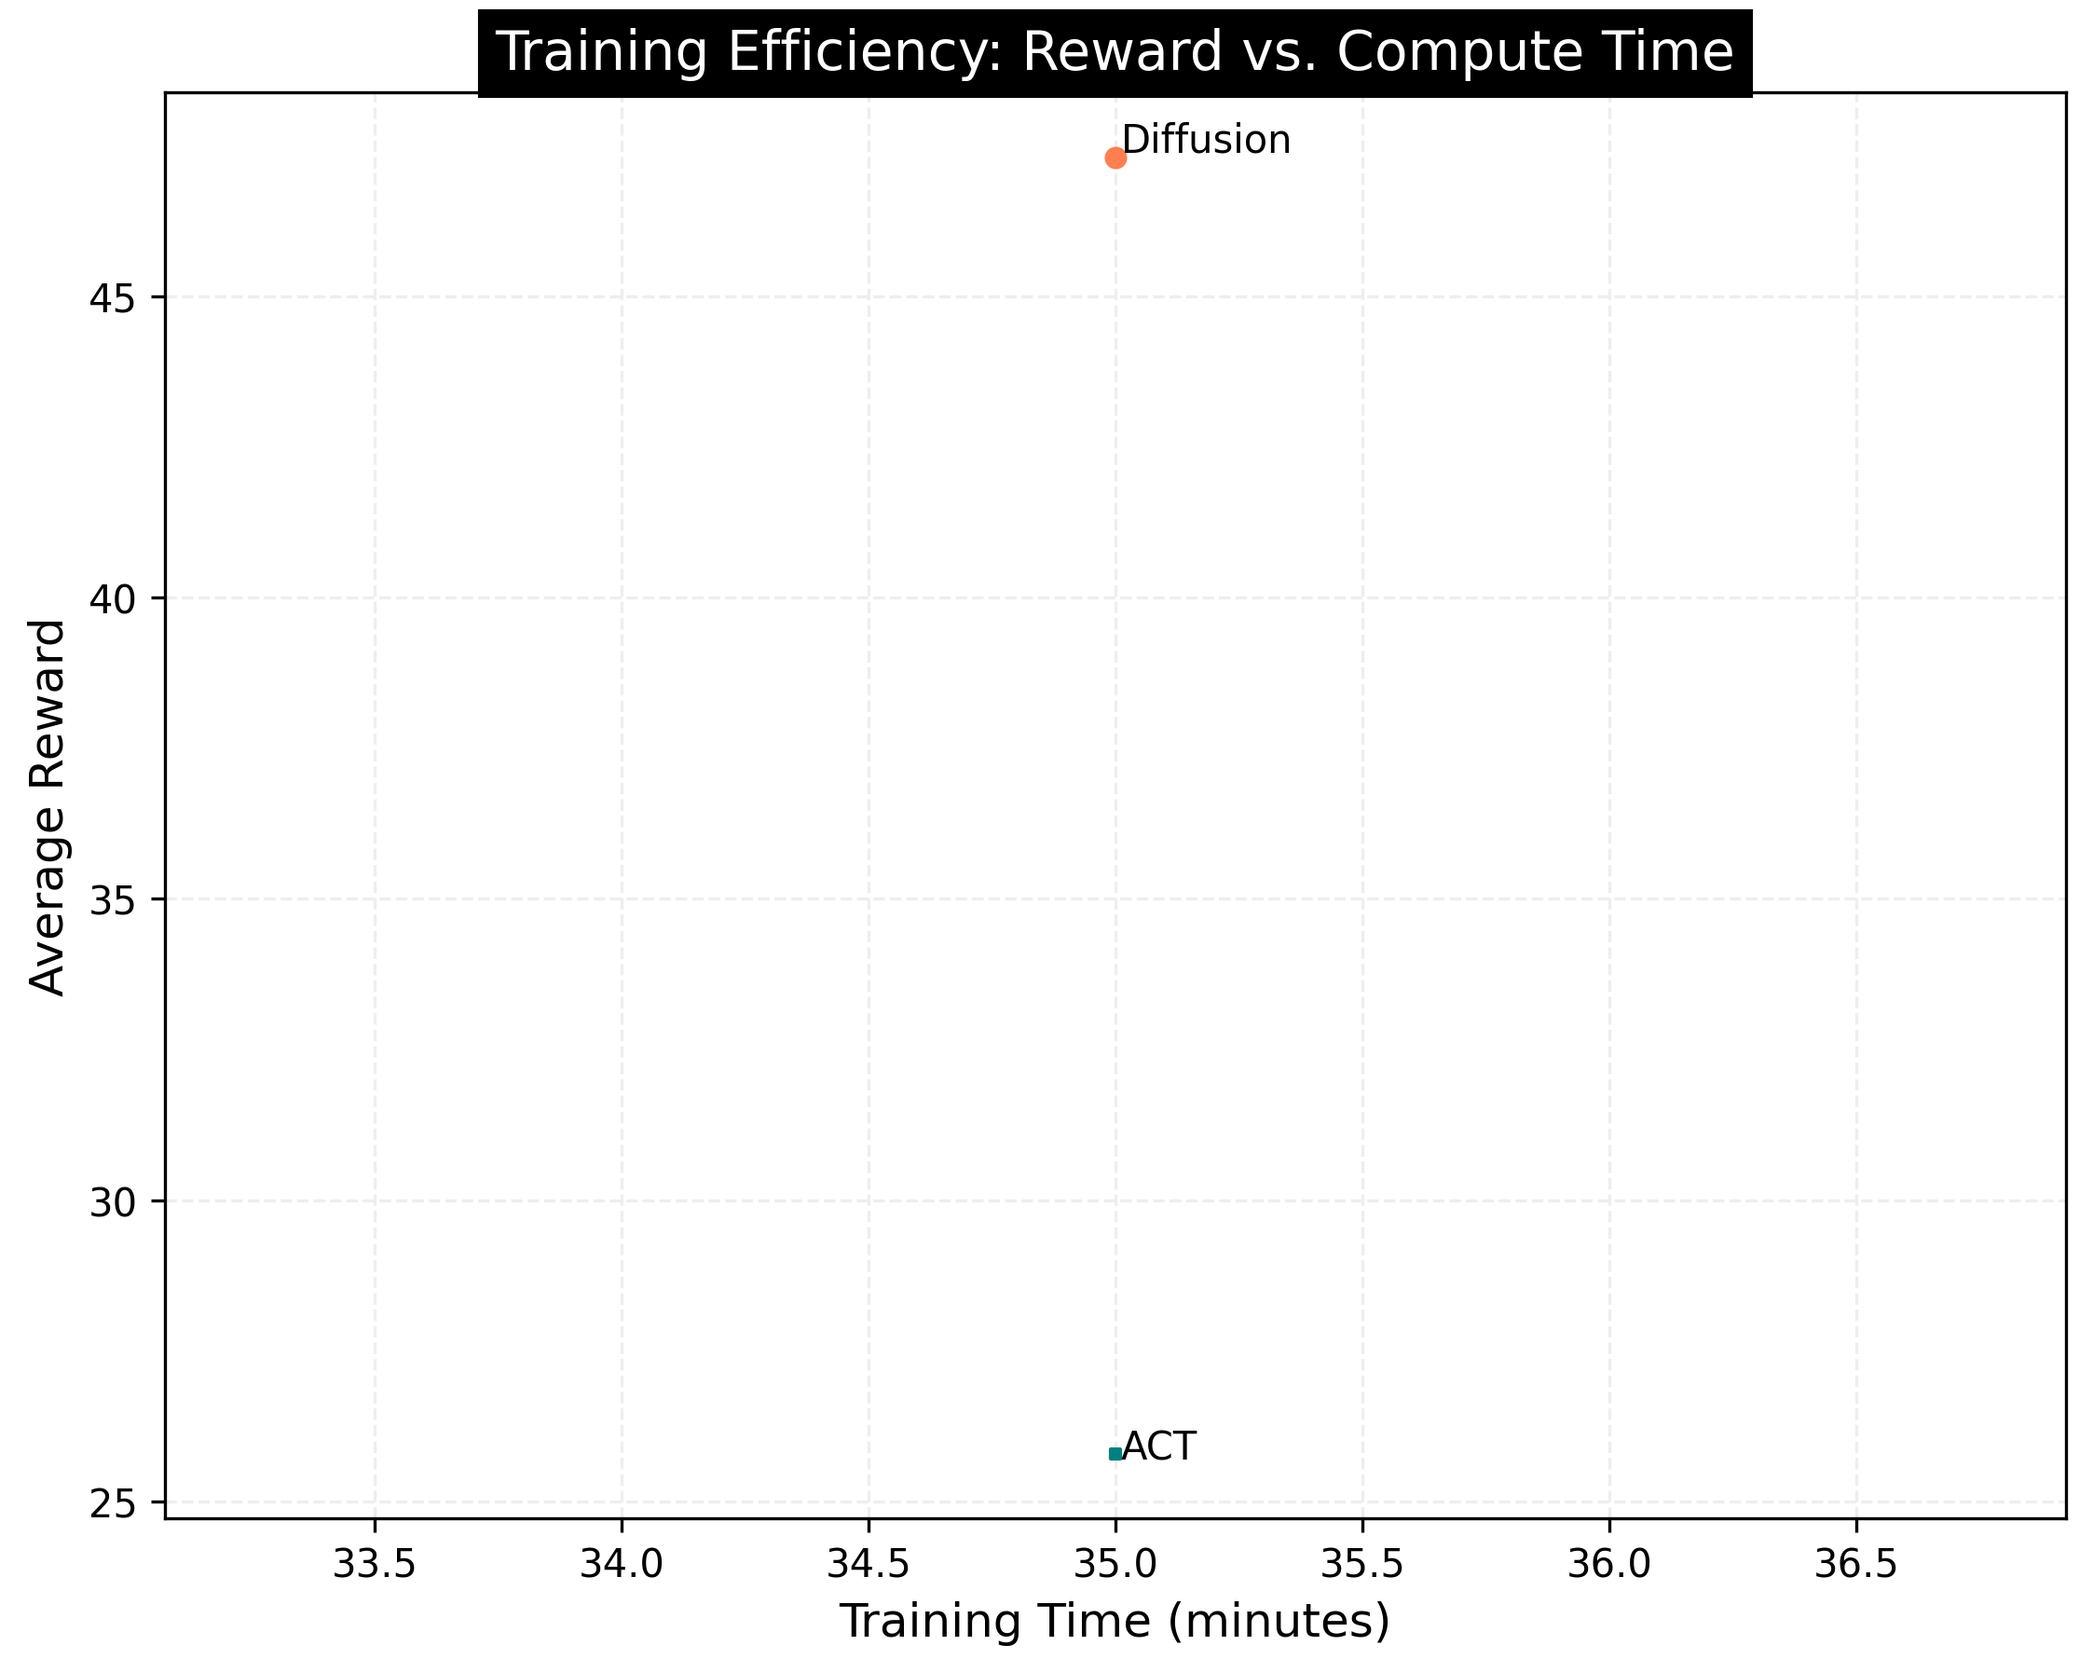
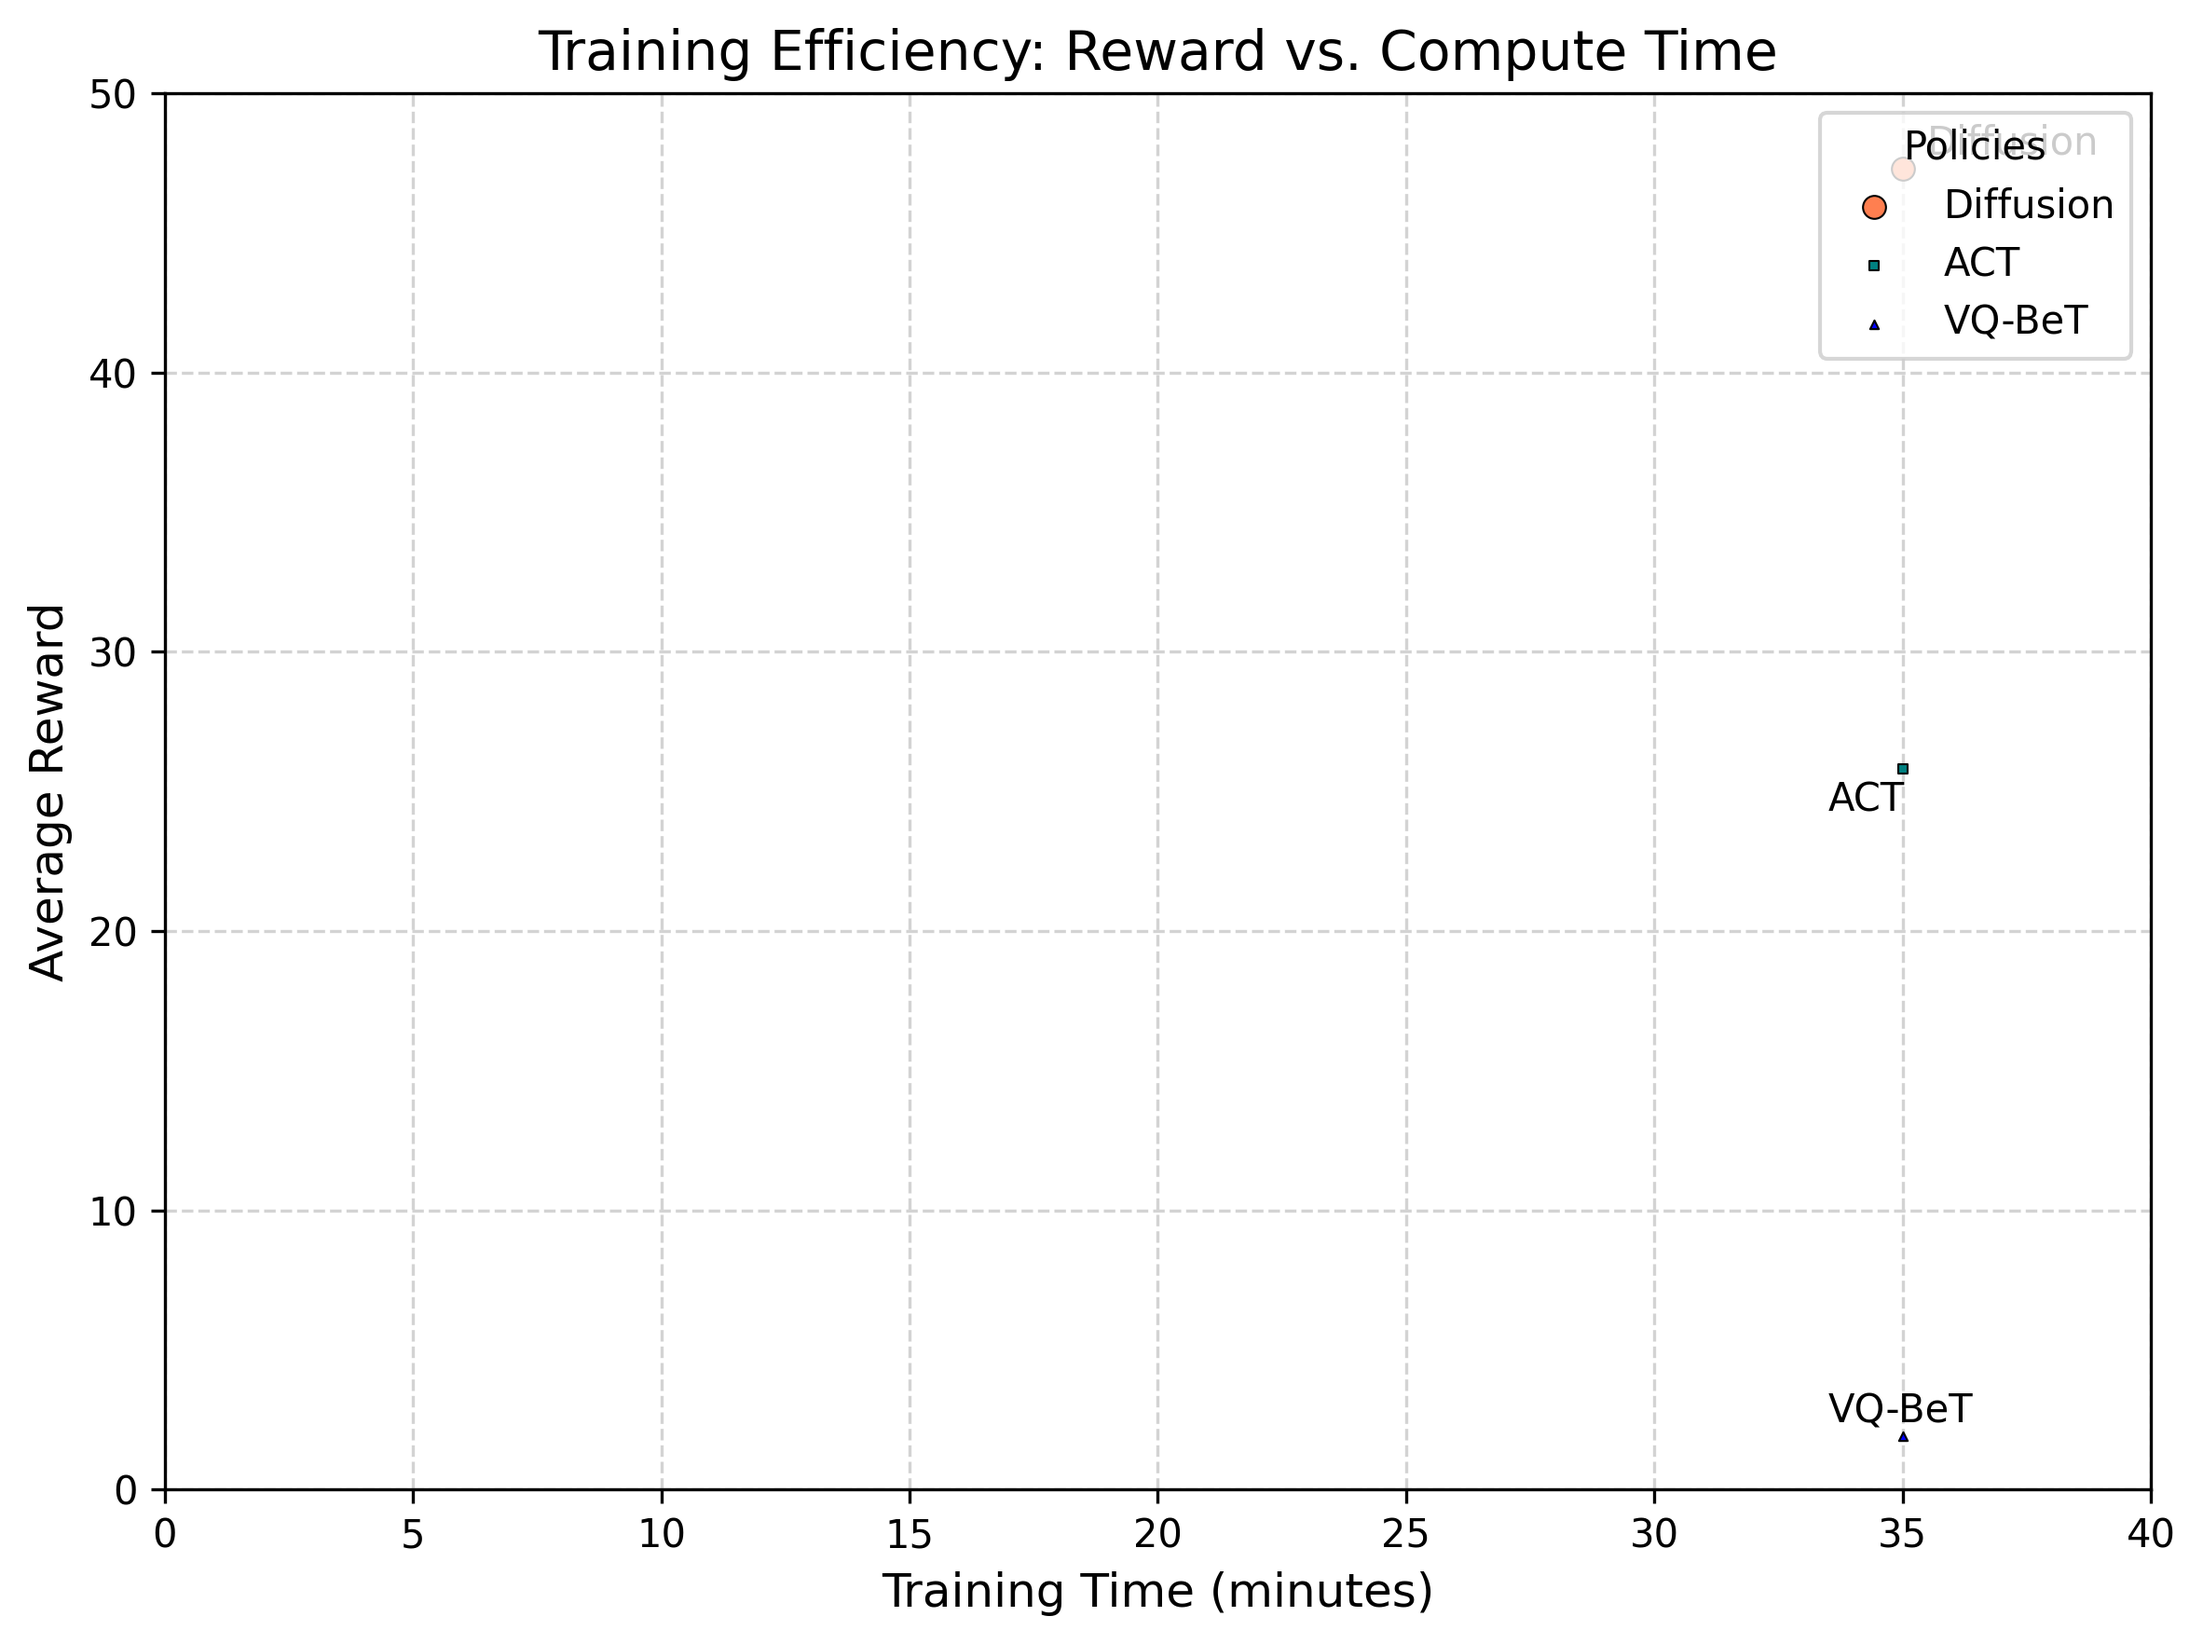
results: 3 experiments — auto-sync

diff --git a/RESULTS.md b/RESULTS.md
@@ -1,18 +1,18 @@
 # AutoResearch-MRL: Live Results
 
-> Last updated: **2026-03-14 06:32 UTC** | auto-generated every 5 min
+> Last updated: **2026-03-14 06:36 UTC** | auto-generated every 5 min
 
 ## Summary
 
 | Metric | Value |
 |--------|-------|
-| **Current Phase** | Phase 1: Baselines (2/9) |
-| Total experiments | 2 |
-| Baselines complete | 2 / 9 |
+| **Current Phase** | Phase 1: Baselines (3/9) |
+| Total experiments | 3 |
+| Baselines complete | 3 / 9 |
 | Improvements kept | 0 |
 | Discarded | 0 |
 | Crashes | 0 |
-| Total GPU time | 70 min (1.2 hrs) |
+| Total GPU time | 105 min (1.8 hrs) |
 
 ## Policy Comparison
 
@@ -24,10 +24,15 @@
 |--------|------|:------------:|:----------:|:---------:|:----------:|:-----:|
 | diffusion | PushT-v0 | 6.0% | 47.3 | 0.0 | 35 | 28405 |
 | act | PushT-v0 | 0.0% | 25.8 | 0.0 | 35 | 16922 |
+| vqbet | PushT-v0 | 0.0% | 1.9 | 0.0 | 35 | 25970 |
 
 ## Training Efficiency
 
 ![Training Efficiency](reports/figures/training_efficiency.png)
+
+## Experiment Progress
+
+![Experiment Progress](reports/figures/experiment_progress.png)
 
 ## Full Experiment Log
 
@@ -38,6 +43,7 @@
 |---|--------|--------|------|:-------:|:------:|:------:|-------------|
 | 1 | `c7275a1` | diffusion | PushT-v0 | 6.0% | 47.3 | baseline | default diffusion on PushT-v0 |
 | 2 | `814f618` | act | PushT-v0 | 0.0% | 25.8 | baseline | default act on PushT-v0 |
+| 3 | `5dcae14` | vqbet | PushT-v0 | 0.0% | 1.9 | baseline | default vqbet on PushT-v0 |
 
 </details>
 
